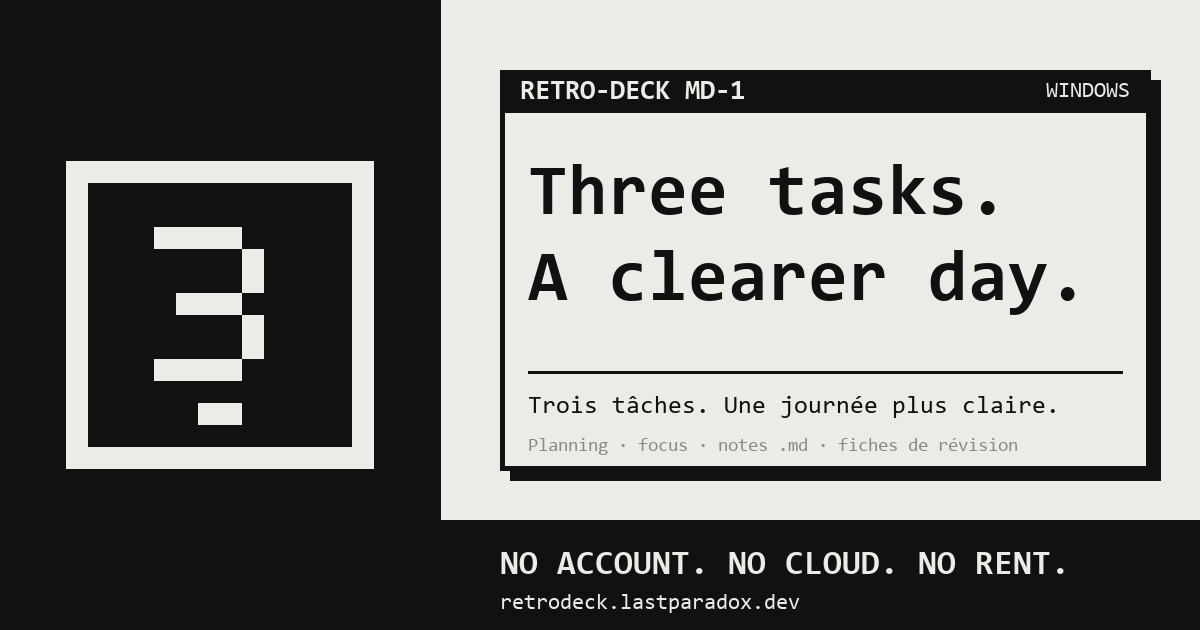
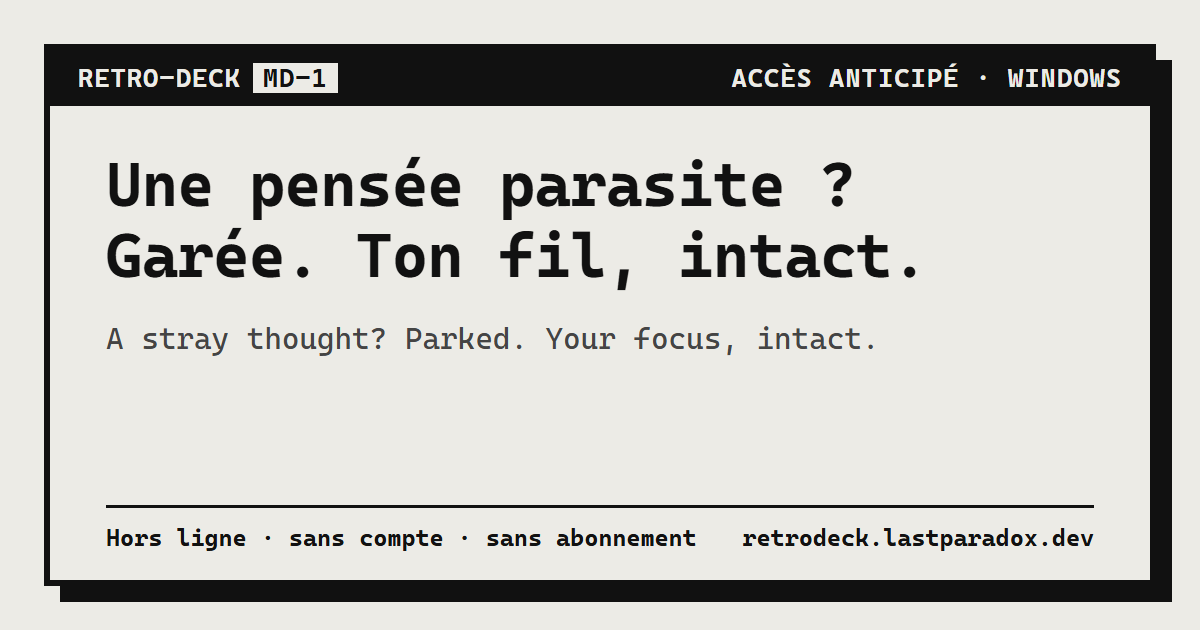
Home: title, description and share image aligned on the new hero

diff --git a/site/public/index.html b/site/public/index.html
@@ -3,30 +3,30 @@
 <head>
 <meta charset="utf-8">
 <meta name="viewport" content="width=device-width, initial-scale=1">
-<title data-fr="RETRO-DECK MD-1 — Trois tâches. Une journée plus claire." data-en="RETRO-DECK MD-1 — Three tasks. A clearer day.">RETRO-DECK MD-1 — Trois tâches. Une journée plus claire.</title>
-<meta name="description" content="Le carnet de travail calme pour Windows : planifie selon ton énergie, concentre-toi sur une seule chose, transforme tes erreurs en révisions. Local, sans compte, sans abonnement. En accès anticipé." data-fr="Le carnet de travail calme pour Windows : planifie selon ton énergie, concentre-toi sur une seule chose, transforme tes erreurs en révisions. Local, sans compte, sans abonnement. En accès anticipé." data-en="The calm work notebook for Windows: plan around your energy, focus on one thing, turn your mistakes into revision. Local, no account, no subscription. Early access.">
+<title data-fr="RETRO-DECK MD-1 — Une pensée parasite ? Garée. Ton fil, intact." data-en="RETRO-DECK MD-1 — A stray thought? Parked. Your focus, intact.">RETRO-DECK MD-1 — Une pensée parasite ? Garée. Ton fil, intact.</title>
+<meta name="description" content="Le carnet de travail calme pour Windows : trois tâches par jour, une seule chose à la fois, tes notes en fichiers sur ton PC. À essayer dans le navigateur. Sans compte, sans abonnement. En accès anticipé." data-fr="Le carnet de travail calme pour Windows : trois tâches par jour, une seule chose à la fois, tes notes en fichiers sur ton PC. À essayer dans le navigateur. Sans compte, sans abonnement. En accès anticipé." data-en="The calm work notebook for Windows: three tasks a day, one thing at a time, your notes as files on your PC. Try it in your browser. No account, no subscription. Early access.">
 <link rel="canonical" href="https://retrodeck.lastparadox.dev/">
 <link rel="icon" href="/favicon.svg" type="image/svg+xml">
 <link rel="icon" href="/favicon.ico" sizes="48x48">
 <link rel="apple-touch-icon" href="/apple-touch-icon.png">
 <meta property="og:type" content="website">
 <meta property="og:site_name" content="RETRO-DECK MD-1">
-<meta property="og:title" content="RETRO-DECK MD-1 — Trois tâches. Une journée plus claire.">
-<meta property="og:description" content="Le carnet de travail calme pour Windows : planifie selon ton énergie, concentre-toi sur une seule chose, transforme tes erreurs en révisions. Local, sans compte, sans abonnement. En accès anticipé.">
+<meta property="og:title" content="RETRO-DECK MD-1 — Une pensée parasite ? Garée. Ton fil, intact.">
+<meta property="og:description" content="Le carnet de travail calme pour Windows : trois tâches par jour, une seule chose à la fois, tes notes en fichiers sur ton PC. À essayer dans le navigateur. Sans compte, sans abonnement. En accès anticipé.">
 <meta property="og:url" content="https://retrodeck.lastparadox.dev/">
 <meta property="og:image" content="https://retrodeck.lastparadox.dev/og-image.png">
 <meta property="og:image:type" content="image/png">
 <meta property="og:image:width" content="1200">
 <meta property="og:image:height" content="630">
-<meta property="og:image:alt" content="RETRO-DECK MD-1 — Three tasks. A clearer day. Trois tâches. Une journée plus claire.">
+<meta property="og:image:alt" content="RETRO-DECK MD-1 — Une pensée parasite ? Garée. Ton fil, intact. A stray thought? Parked. Your focus, intact.">
 <meta property="og:locale" content="fr_FR">
 <meta property="og:locale:alternate" content="en_US">
 <meta name="twitter:card" content="summary_large_image">
 <meta name="twitter:site" content="@LastParadox__">
-<meta name="twitter:title" content="RETRO-DECK MD-1 — Trois tâches. Une journée plus claire.">
-<meta name="twitter:description" content="Le carnet de travail calme pour Windows : planifie selon ton énergie, concentre-toi sur une seule chose, transforme tes erreurs en révisions. Local, sans compte, sans abonnement. En accès anticipé.">
+<meta name="twitter:title" content="RETRO-DECK MD-1 — Une pensée parasite ? Garée. Ton fil, intact.">
+<meta name="twitter:description" content="Le carnet de travail calme pour Windows : trois tâches par jour, une seule chose à la fois, tes notes en fichiers sur ton PC. À essayer dans le navigateur. Sans compte, sans abonnement. En accès anticipé.">
 <meta name="twitter:image" content="https://retrodeck.lastparadox.dev/og-image.png">
-<meta name="twitter:image:alt" content="RETRO-DECK MD-1 — Three tasks. A clearer day.">
+<meta name="twitter:image:alt" content="RETRO-DECK MD-1 — Une pensée parasite ? Garée. Ton fil, intact.">
 <meta name="theme-color" content="#111111">
 <link rel="stylesheet" href="/assets/epaper.css">
 </head>
